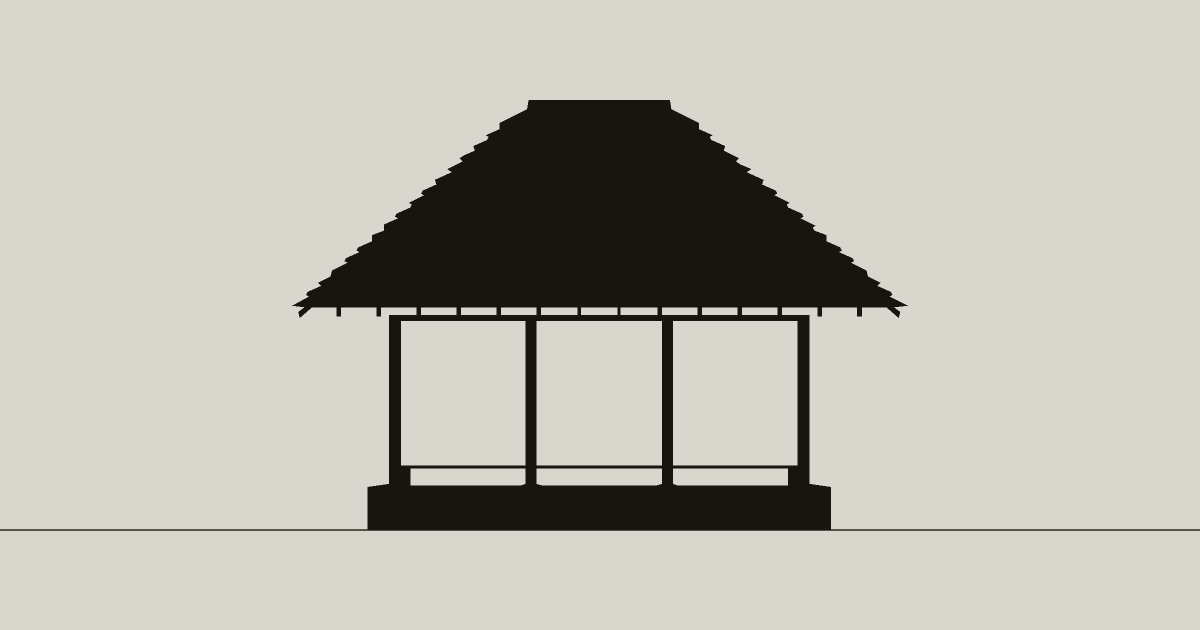
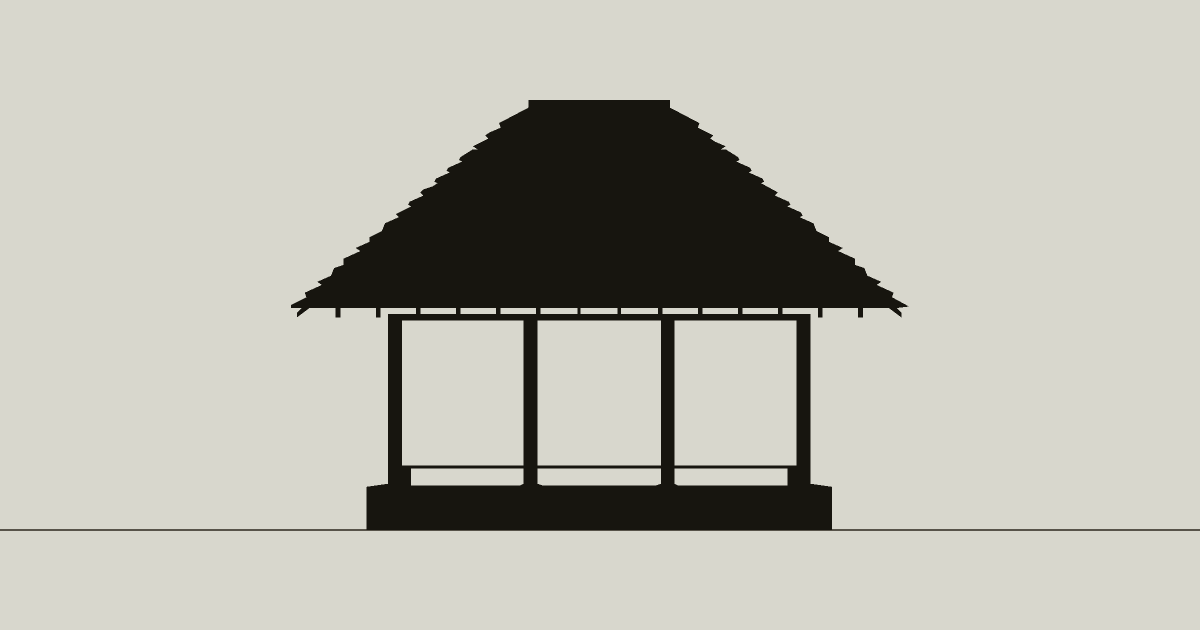
The bale-bale is something to lie on, and the saka are timber
Two things the render said and the checks could not. The sitting platform
was 0.85 m deep and read as a wall shelf; a bale-bale is the use the
building is put to, so at one depa a person fits across it. And a saka at
one musti is 128 mm carrying 2.1 m, which drew as a stick — eight fingers
gives 150 mm.

The section moves from musti to nyari because stock is measured in fingers.
It is the unit a person reaches for when saying how thick a thing is, and
its whole multiples land closer together, which is what a section needs
and a set-out does not.

Changed region(s): [[0.3083, 0.4825, 0.6783, 0.754], [0.74, 0.4825, 0.7708, 0.5127], [0.2467, 0.4825, 0.2775, 0.5127]]

diff --git a/lib/tradition/bali/rules.ts b/lib/tradition/bali/rules.ts
@@ -127,12 +127,12 @@ export const DIMS = {
   eaveOversailUnits: dim(2, 'count', 'interpolated', 'none', 'Seberapa jauh tepi atap melampaui bataran, dalam hasta. Inilah yang membuat bale terpakai saat hujan: bangunan tanpa dinding hanya kering sejauh atapnya menjangkau.', 'How far the eave reaches past the bataran, in hasta. This is what makes a bale usable in rain: a building with no walls is dry only as far as its roof reaches.'),
   ridgeRiseUnits: dim(6, 'count', 'interpolated', 'none', 'Tinggi bubungan di atas tepi atap, dalam hasta. Menentukan kemiringan, dan alang-alang menuntut kemiringan curam supaya air lekas turun. Mula-mula ditulis tiga hasta, yang memberi kemiringan 24° — catatan pada angka ini sudah mengatakan “curam” sementara angkanya tidak, dan siluetnya membacanya sebagai payung, bukan atap. Enam hasta memberi sekitar 42°.', 'Rise of the ridge above the eave, in hasta. It sets the pitch, and alang-alang needs a steep one so water leaves quickly. Written as three hasta first, which gives a pitch of 24° — this dimension’s own note already said “steep” while its value did not, and the silhouette read as an umbrella rather than a roof. Six hasta gives about 42°.'),
   deckHeightUnits: dim(2, 'count', 'interpolated', 'none', 'Tinggi bale-bale di dalam, dalam musti, di atas lantai bataran.', 'Height of the sitting platform inside, in musti, above the bataran paving.'),
-  deckDepthUnits: dim(2, 'count', 'interpolated', 'none', 'Dalamnya bale-bale, dalam hasta.', 'Depth of the sitting platform, in hasta.'),
+  deckDepthUnits: dim(4, 'count', 'interpolated', 'none', 'Dalamnya bale-bale, dalam hasta — satu depa, cukup untuk orang berbaring melintangnya. Mula-mula dua hasta, 0,85 m, dan pada gambar bendanya terbaca sebagai rak dinding, bukan tempat orang duduk dan tidur. Bale-bale adalah kegunaan bangunan ini; membuatnya terlalu sempit untuk dipakai berarti membangun atap di atas ambalan.', 'Depth of the sitting platform, in hasta — one depa, enough for a person to lie across. Two hasta at first, 0.85 m, and in the render it read as a shelf rather than something to sit and sleep on. The bale-bale is what this building is for; making it too narrow to use is building a roof over a ledge.'),
   stepRiseUnits: dim(2, 'count', 'interpolated', 'none', 'Tinggi satu anak tangga naik ke bataran, dalam musti.', 'Rise of one step up to the bataran, in musti.'),
 
   /* ── stock sizes: sections and thicknesses, which take no pengurip ── */
 
-  sakaSectionUnits: dim(1, 'count', 'interpolated', 'none', 'Sisi penampang saka, dalam musti. Ini ukuran batang, bukan ukuran tata letak, jadi tidak diberi pengurip — dan pemeriksaan modul menyatakan berapa panjang yang dikecualikannya karena alasan itu.', 'Section of a saka, in musti. This is a size of timber rather than a set-out dimension, so it takes no pengurip — and the module check states how many lengths it excludes for that reason.'),
+  sakaSectionUnits: dim(8, 'count', 'interpolated', 'none', 'Sisi penampang saka, dalam jari. Ini ukuran batang, bukan ukuran tata letak, jadi tidak diberi pengurip — dan pemeriksaan modul menyatakan berapa panjang yang dikecualikannya karena alasan itu. Dinyatakan dalam jari dan bukan musti karena satu musti, 128 mm, membuat tiang setinggi 2,1 m terbaca sebagai lidi pada gambar; delapan jari memberi 150 mm. Batang diukur dengan jari — itu satuan yang dipakai orang untuk tebal, dan kelipatan bulatnya lebih rapat.', 'Section of a saka, in fingers. This is a size of timber rather than a set-out dimension, so it takes no pengurip — and the module check states how many lengths it excludes for that reason. Given in nyari rather than musti because one musti, 128 mm, makes a 2.1 m post read as a stick in the render; eight fingers gives 150 mm. Stock is measured in fingers — it is the unit a person reaches for when saying how thick a thing is, and its whole multiples are closer together.'),
   sunduSectionUnits: dim(3, 'count', 'interpolated', 'none', 'Tinggi penampang balok pengikat, dalam nyari.', 'Depth of a tie beam, in nyari.'),
   rafterSectionUnits: dim(2, 'count', 'interpolated', 'none', 'Sisi penampang kasau, dalam nyari.', 'Section of a rafter, in nyari.'),
   boardThicknessUnits: dim(1, 'count', 'interpolated', 'none', 'Tebal papan, dalam nyari.', 'Thickness of a board, in nyari.'),

diff --git a/lib/tradition/bali/frame.ts b/lib/tradition/bali/frame.ts
@@ -81,7 +81,7 @@ export function resolveLayout(rules: Rules): Layout {
   const deckDepth = m.principal(s, 'deckDepth', 'dalam bale-bale', 'depth of the sitting deck', DIMS.deckDepthUnits.value, 'hasta')
   const stepRise = m.principal(s, 'stepRise', 'tinggi anak tangga', 'rise of a step', DIMS.stepRiseUnits.value, 'musti')
 
-  const sakaSection = m.stock(s, DIMS.sakaSectionUnits.value, 'musti')
+  const sakaSection = m.stock(s, DIMS.sakaSectionUnits.value, 'nyari')
   const sendiHeight = m.stock(s, DIMS.sendiHeightUnits.value, 'nyari')
 
   // The post grid. Rows run across X, columns along Z.
